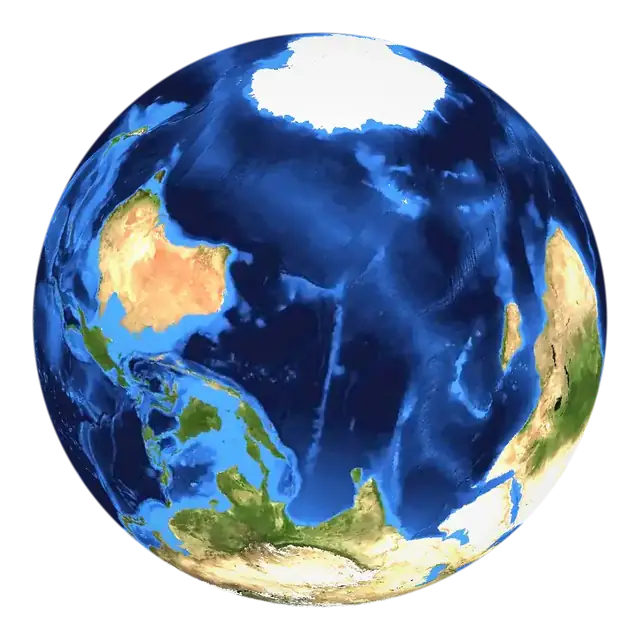
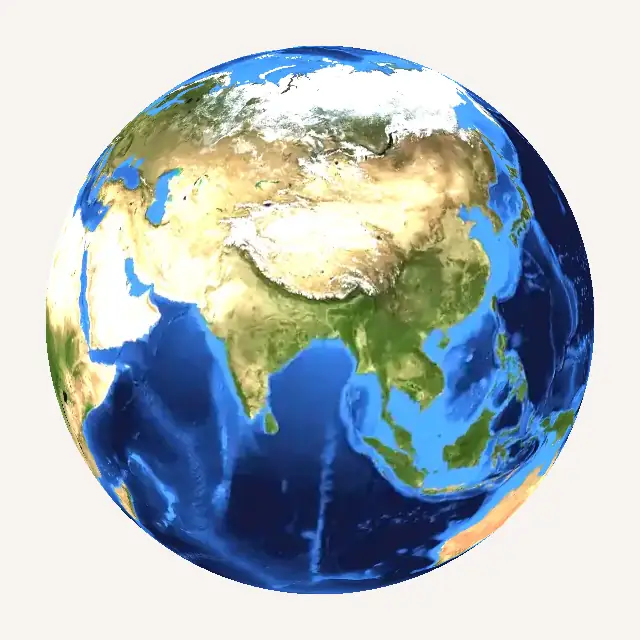
Point the hero Earth north-up so the pins sit on the real cities.

diff --git a/src/components/hero/HeroGlobeCanvas.tsx b/src/components/hero/HeroGlobeCanvas.tsx
@@ -8,6 +8,7 @@ import {
   Group,
   Line,
   LineBasicMaterial,
+  Matrix4,
   Mesh,
   MeshBasicMaterial,
   NoToneMapping,
@@ -55,10 +56,28 @@ const DESTINATIONS: Destination[] = [
 const ARC_MS = 2600;
 
 function latLngToVec(lat: number, lng: number, radius: number) {
+  // Matches SphereGeometry: u = 0 at longitude -180, north pole at +Y.
   const theta = ((90 - lat) * Math.PI) / 180;
   const phi = ((lng + 180) * Math.PI) / 180;
   const ring = radius * Math.sin(theta);
   return new Vector3(-ring * Math.cos(phi), radius * Math.cos(theta), ring * Math.sin(phi));
+}
+
+/** Point `city` at the camera and keep geographic north upright. */
+function faceCityNorthUp(city: Vector3, cameraPosition: Vector3) {
+  const camDir = cameraPosition.clone().normalize();
+  const screenRight = new Vector3().crossVectors(new Vector3(0, 1, 0), camDir);
+  if (screenRight.lengthSq() < 1e-8) screenRight.set(1, 0, 0);
+  screenRight.normalize();
+  const screenUp = new Vector3().crossVectors(camDir, screenRight).normalize();
+  const toward = city.clone().normalize();
+  const localUp = new Vector3(0, 1, 0).sub(toward.clone().multiplyScalar(toward.y));
+  if (localUp.lengthSq() < 1e-8) localUp.set(0, 0, 1);
+  localUp.normalize();
+  const localRight = new Vector3().crossVectors(localUp, toward).normalize();
+  const localBasis = new Matrix4().makeBasis(localRight, localUp, toward);
+  const worldBasis = new Matrix4().makeBasis(screenRight, screenUp, camDir);
+  return worldBasis.multiply(localBasis.invert());
 }
 
 function makePill(text: string, home: boolean, dotColor: string) {
@@ -210,7 +229,7 @@ export default function HeroGlobeCanvas({
     earth.add(atmosphere);
 
     const home = latLngToVec(HOME.lat, HOME.lng, 1);
-    earth.quaternion.setFromUnitVectors(home.clone().normalize(), new Vector3(0, 0.08, 1).normalize());
+    earth.quaternion.setFromRotationMatrix(faceCityNorthUp(home, camera.position));
 
     const arcs = DESTINATIONS.map((destination) => {
       const start = latLngToVec(HOME.lat, HOME.lng, 1.01);

diff --git a/src/components/hero/HeroGlobe.tsx b/src/components/hero/HeroGlobe.tsx
@@ -20,13 +20,12 @@ const copy = {
   },
 } as const;
 
-/** Positions on the still Earth, which is centered on Rajshahi. Far-side places are omitted. */
+/** Positions on the still Earth: north up, Rajshahi centered. Far-side places are omitted. */
 const stillPins = [
   { home: true, x: "50%", y: "50%", anchor: "above" },
-  { place: 2, x: "71.8%", y: "55.9%", anchor: "above" },
-  { place: 1, x: "74.2%", y: "84.8%", anchor: "left" },
-  { place: 5, x: "74.9%", y: "82.4%", anchor: "right" },
-  { place: 4, x: "20.4%", y: "16.5%", anchor: "above" },
+  { place: 1, x: "21.7%", y: "17.8%", anchor: "left" },
+  { place: 2, x: "22.6%", y: "45.7%", anchor: "above" },
+  { place: 5, x: "20.4%", y: "19.4%", anchor: "right" },
 ] as const;
 
 function pinClass(anchor: "above" | "left" | "right") {
